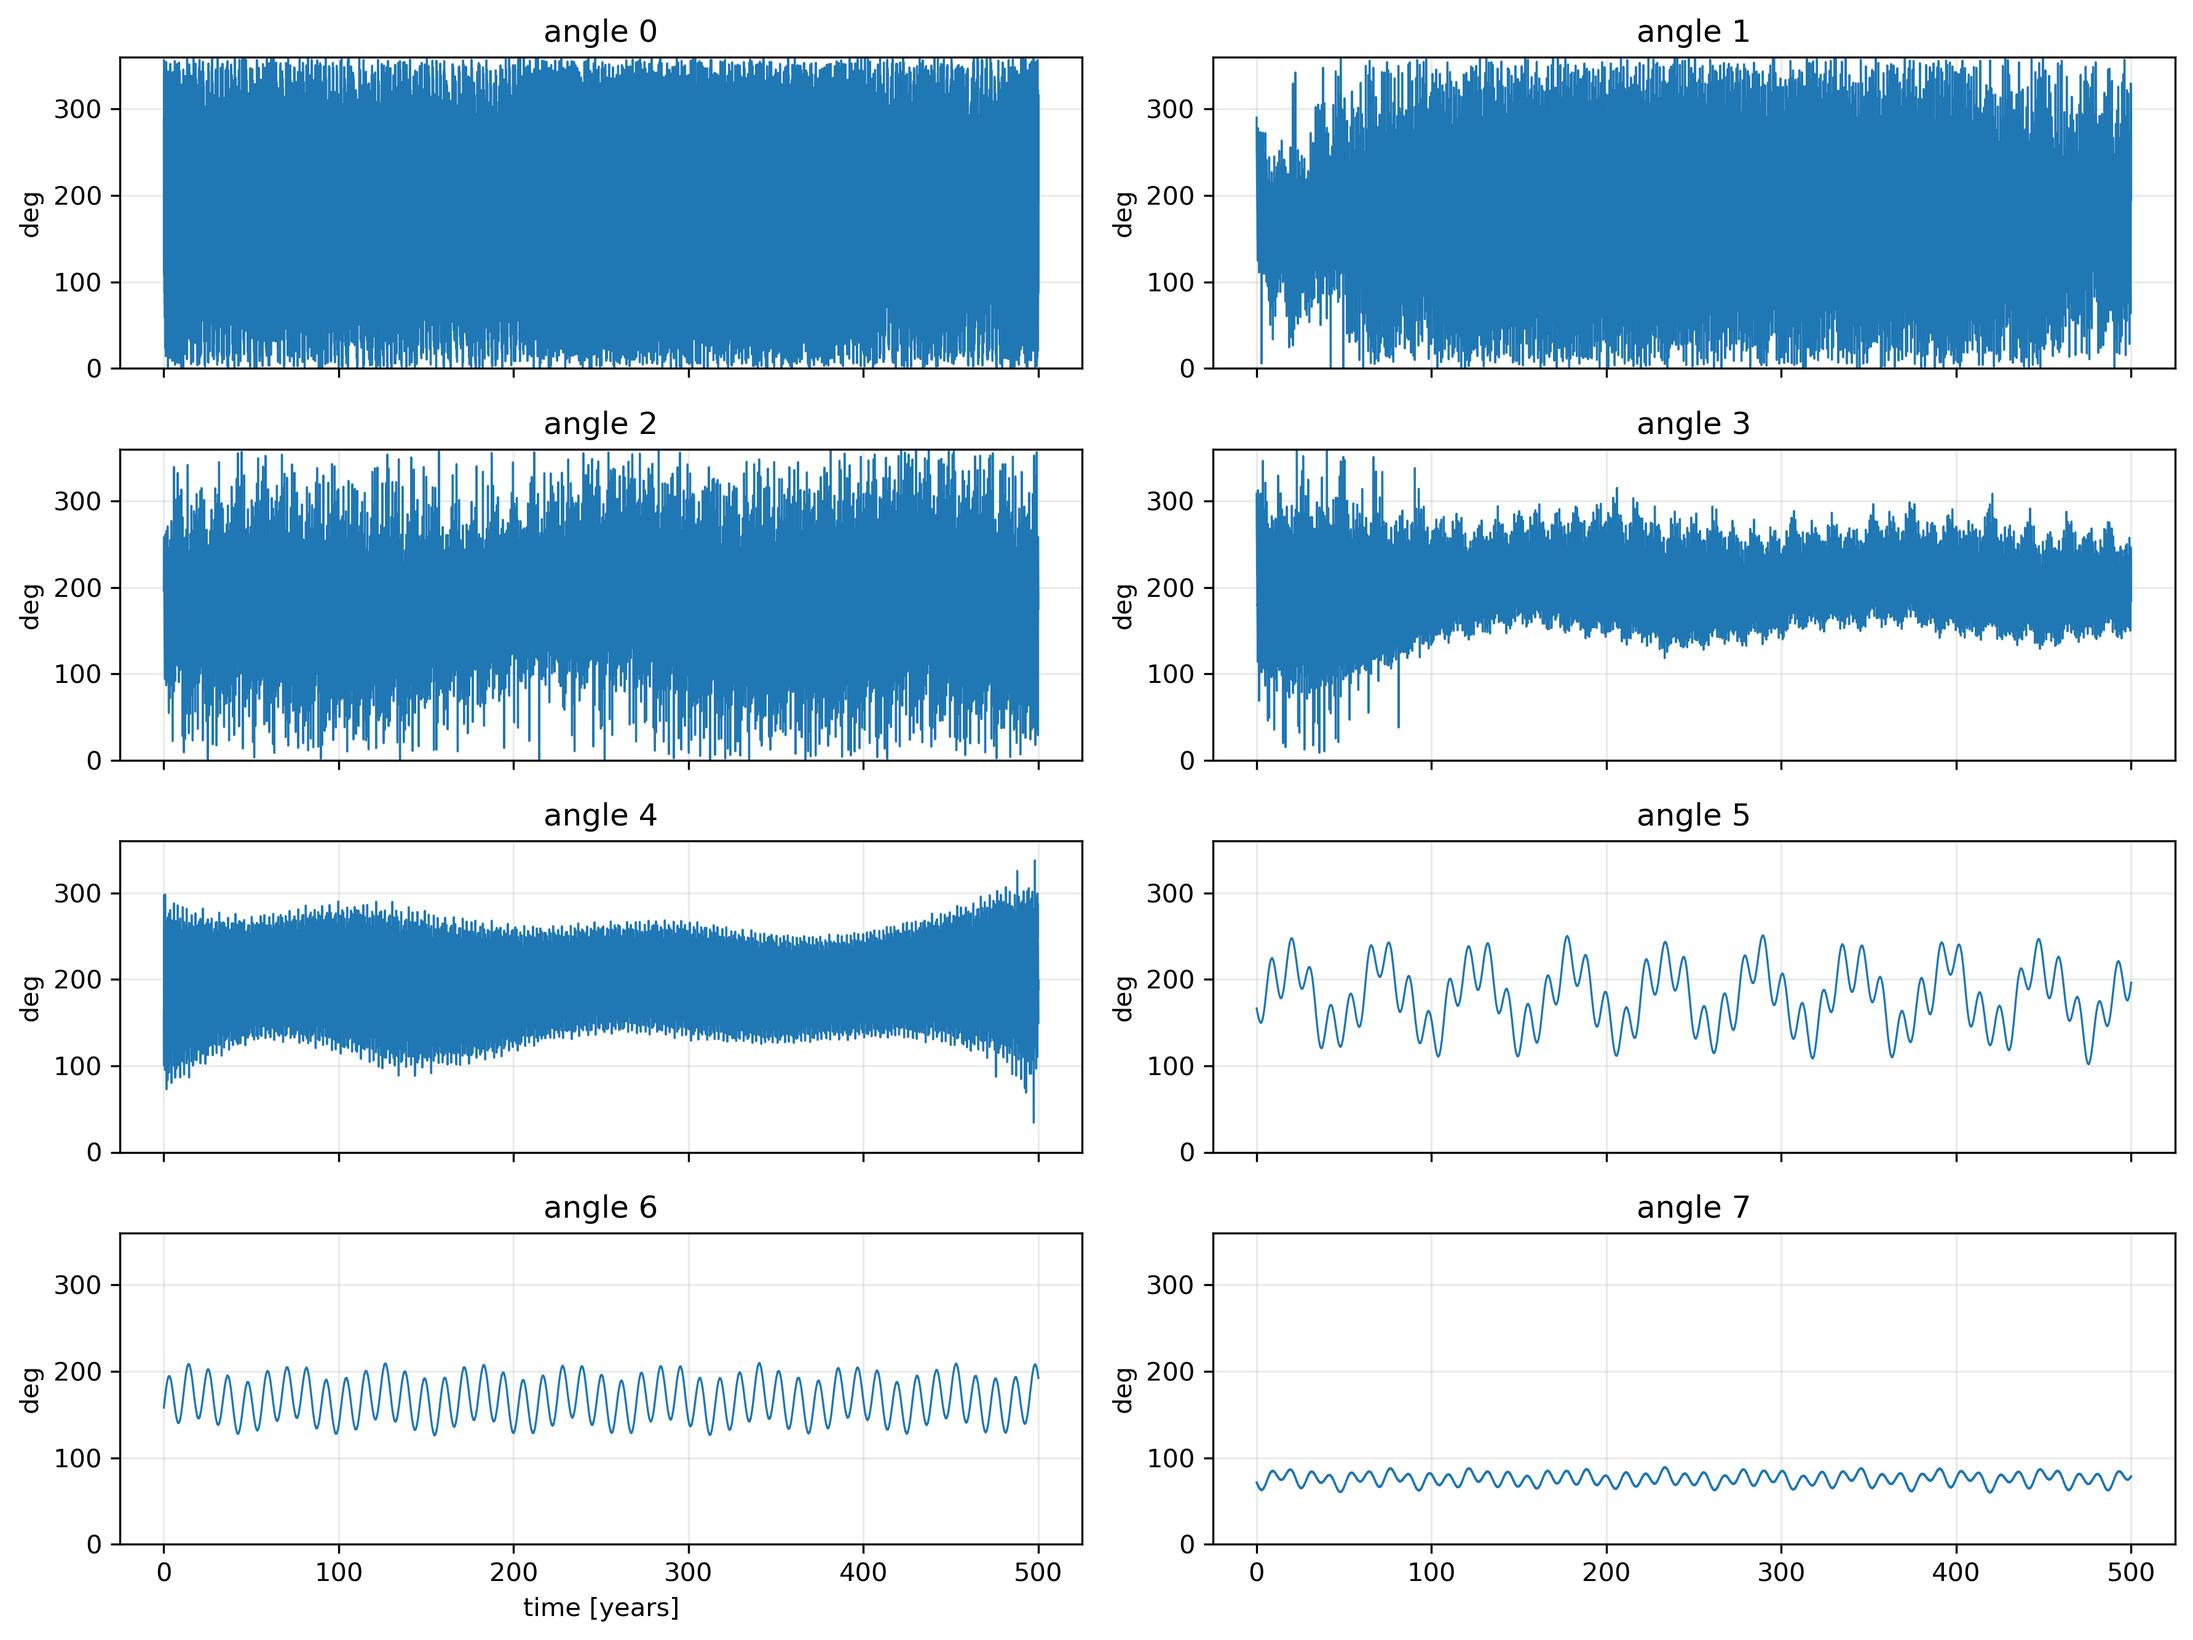
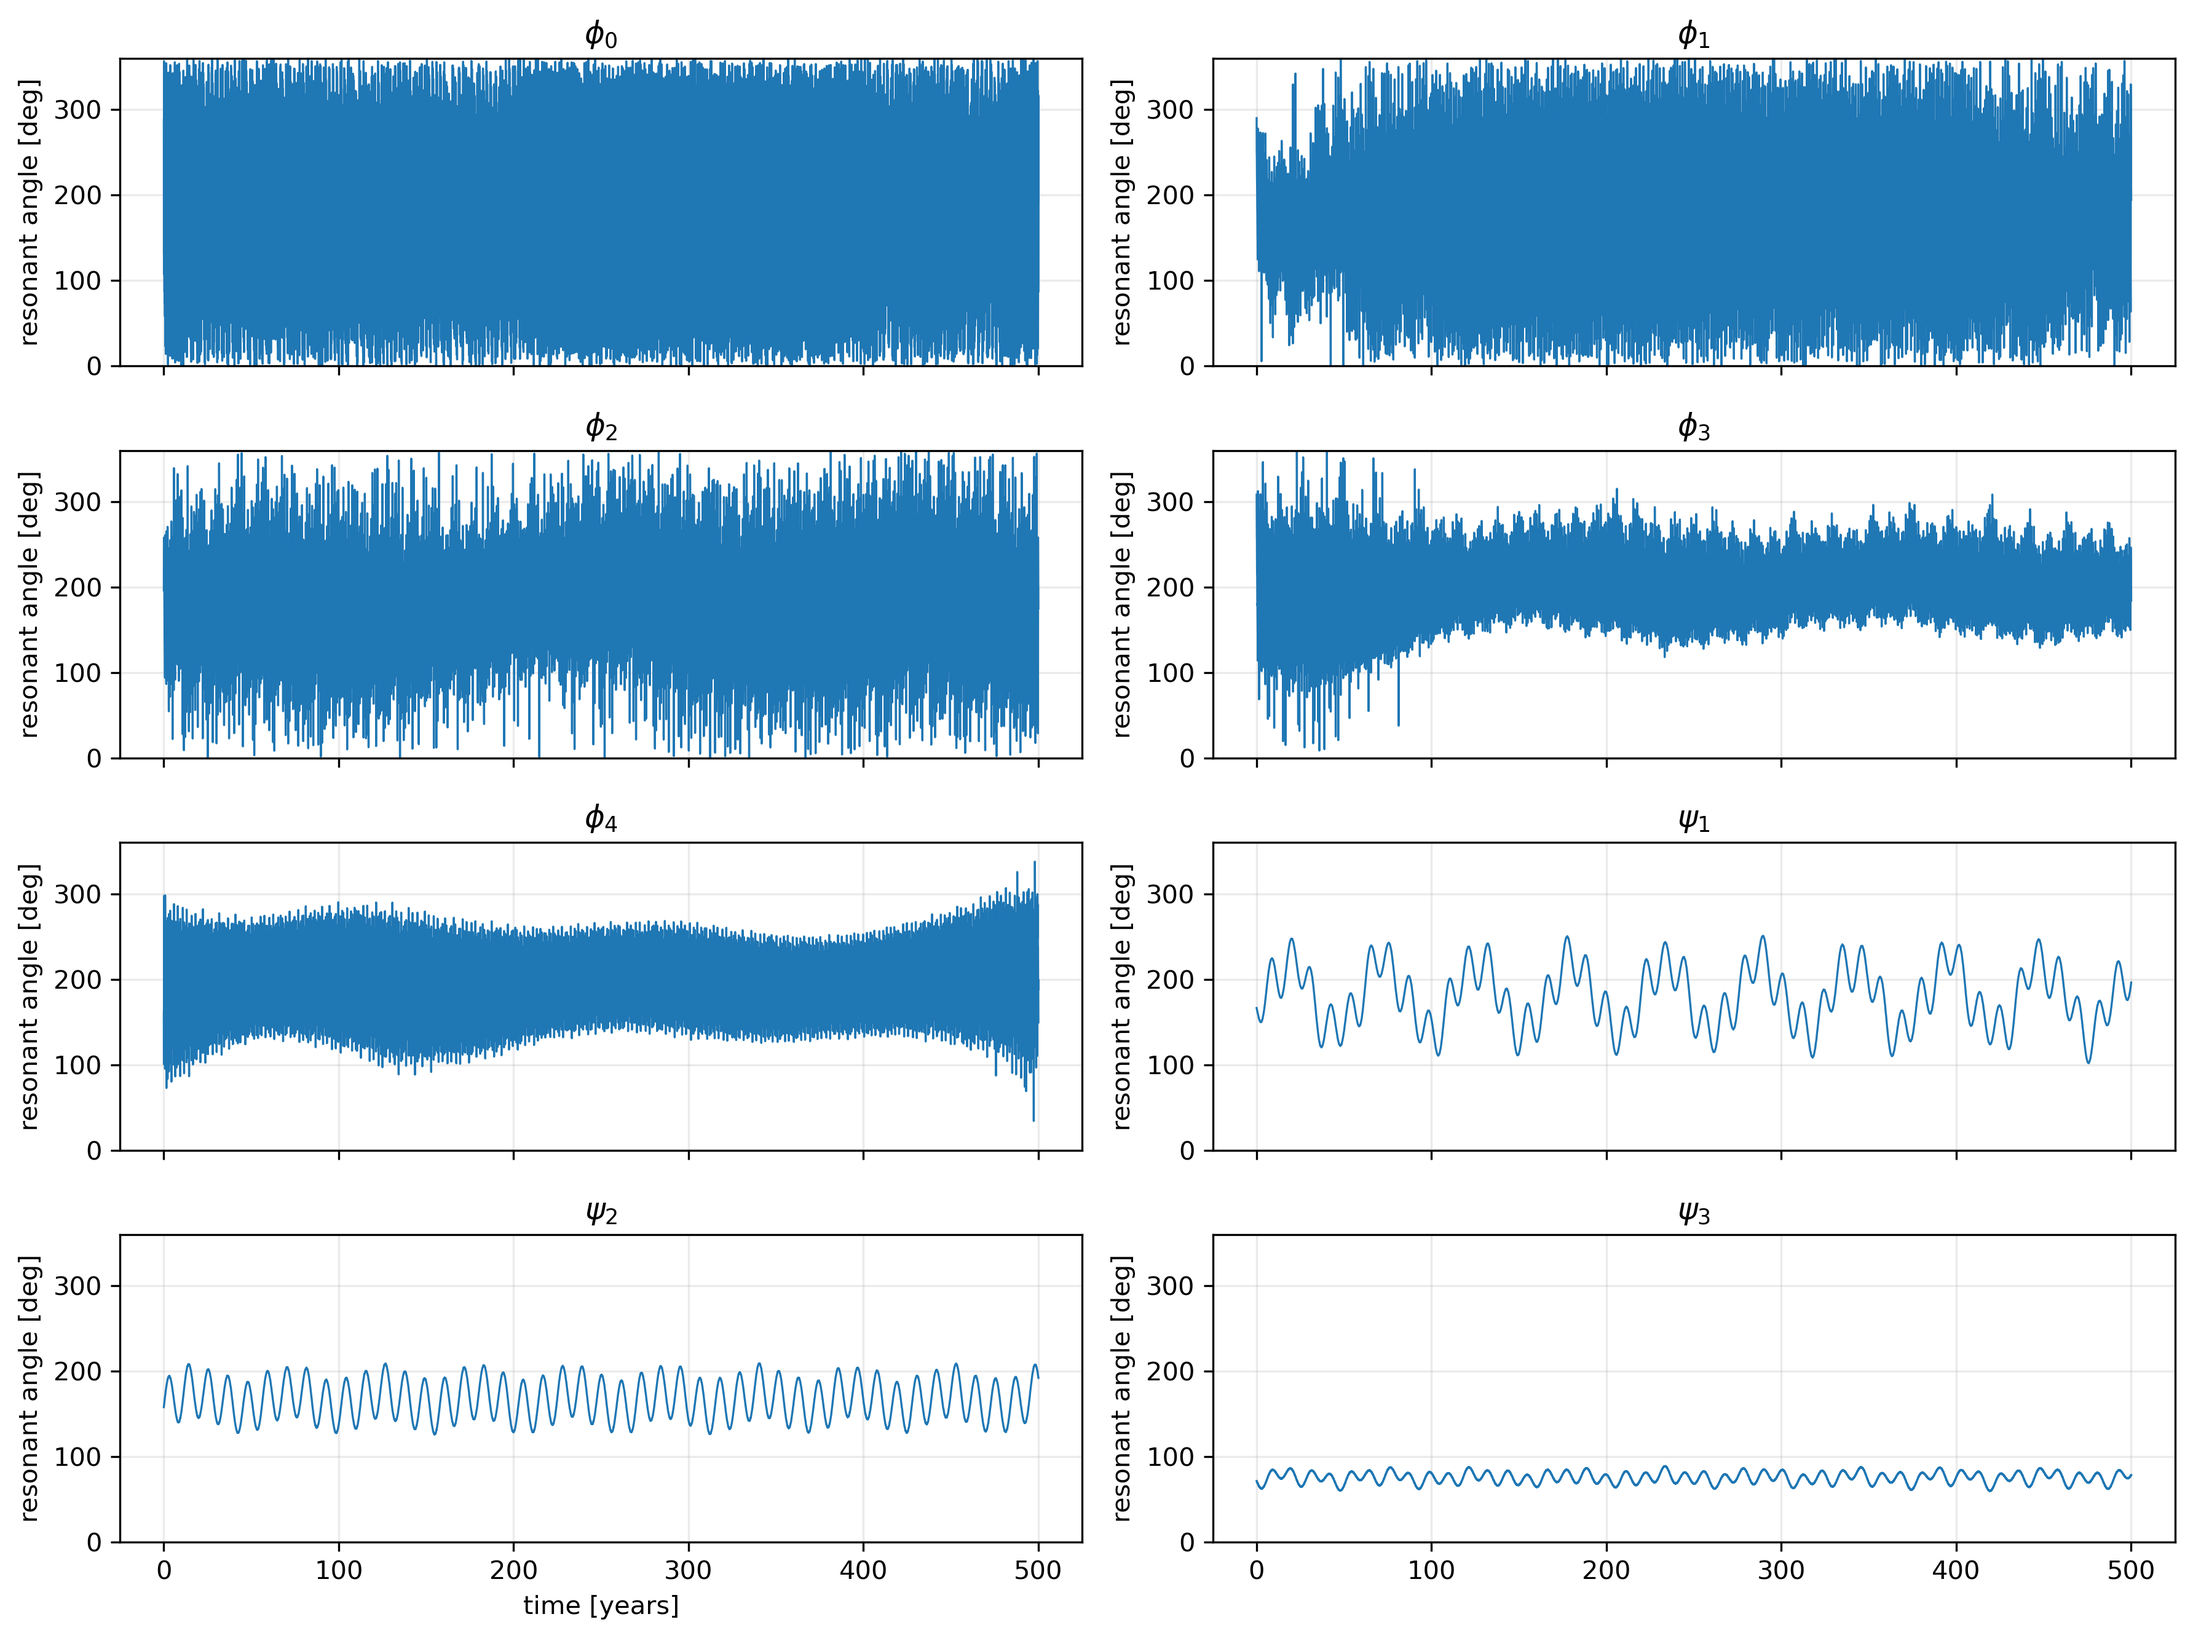
resonance plot beschriftung angepasst

diff --git a/Rebound_simulation/resonance_plot.py b/Rebound_simulation/resonance_plot.py
@@ -96,11 +96,17 @@ for ax in axes:
   ax.set_ylim(0, 360)
   ax.grid(alpha=0.25)
 
-for i in range(n_angles):
+for i in range(5):
   ax = axes[i]
   ax.plot(time_years, angles[i], lw=0.8)
-  ax.set_title(f'angle {i}')
-  ax.set_ylabel('deg')
+  ax.set_title(f'$\phi_{i}$')
+  ax.set_ylabel('resonant angle [deg]')
+
+for i in range(3):
+  ax = axes[i+5]
+  ax.plot(time_years, angles[i+5], lw=0.8)
+  ax.set_title(f'$\psi_{i+1}$')
+  ax.set_ylabel('resonant angle [deg]')
 
 # turn off any unused axes
 for j in range(n_angles, len(axes)):
